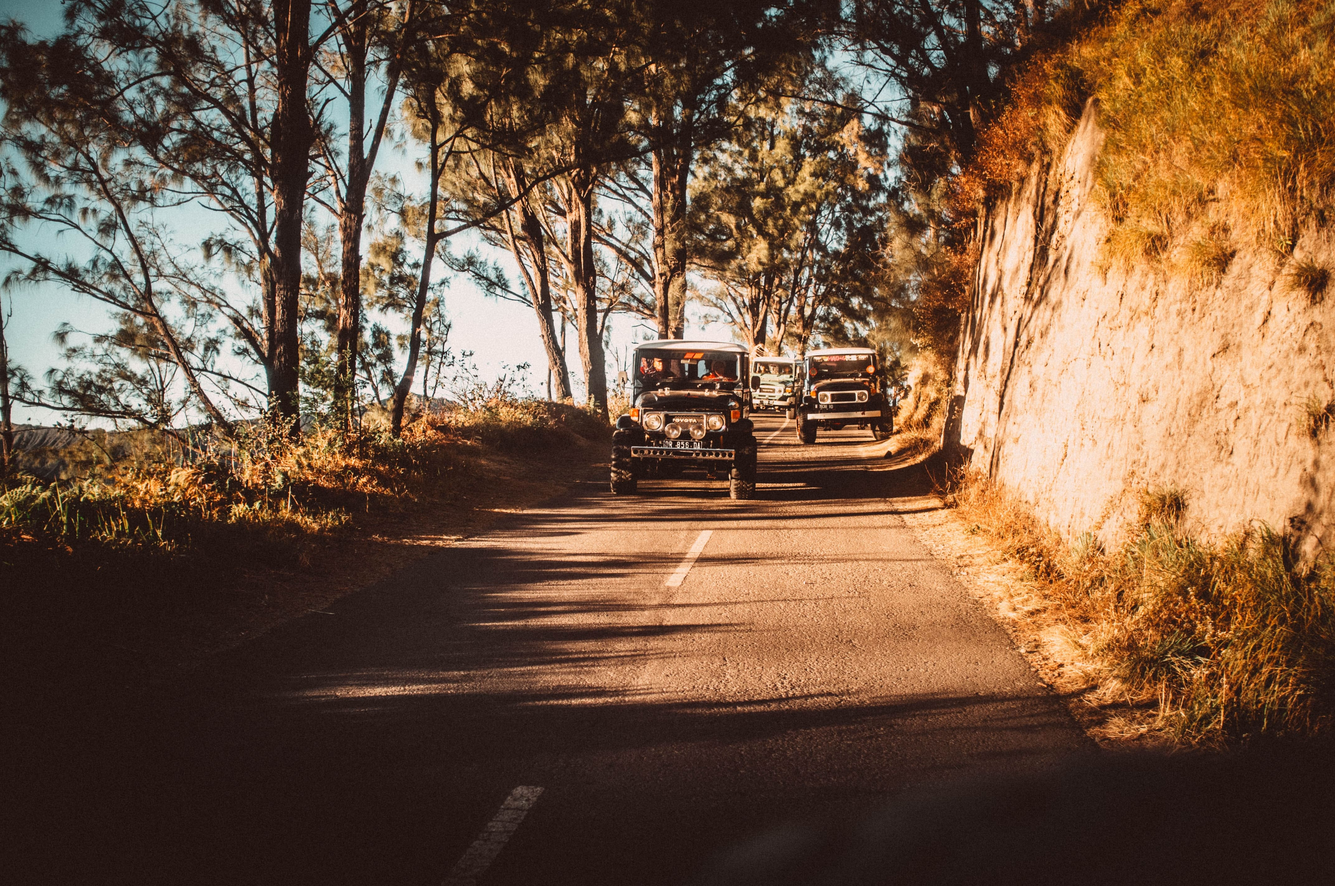
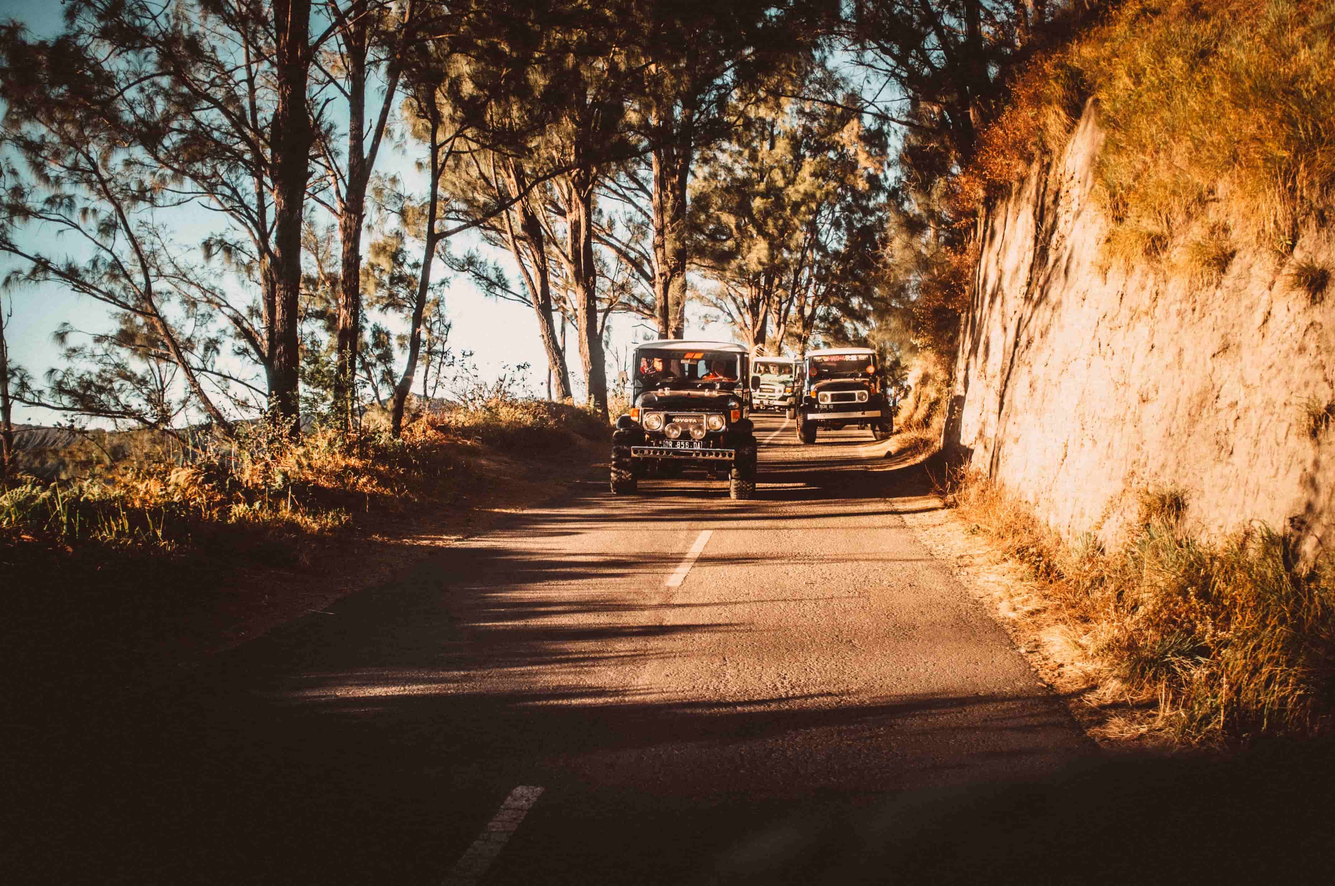
update smaller img

diff --git a/js/action.js b/js/action.js
@@ -7,16 +7,29 @@
  * @FilePath: /Blog-FE/action.js
  */
 
+// $(window).scroll(function(){
+//     let win_h = $(window).scrollTop();
+//     let nav_h = $("header").height();
+//     if(win_h == nav_h){
+//         $("header").css("display",none);
+//     }
+// });
 
 $(window).scroll(function () {
     //获取距离页面顶部的距离
     let toTop =
         document.documentElement.scrollTop ||
         document.body.scrollTop;
+    console.log(toTop);
     //div距离顶部的距离
     if (toTop >= 800) {
         $('#shangxia2').removeClass('hidden');
+        $("header").removeClass('hidden');
+    } else if (toTop === 0) {
+        $("header").addClass('hidden');
+        $('#shangxia2').addClass('hidden');
     } else {
+        $("header").removeClass('hidden');
         $('#shangxia2').addClass('hidden');
     }
 });

diff --git a/index.html b/index.html
@@ -184,7 +184,6 @@
 		</footer>
 		<script>
 			let node = document.getElementById("head-pic");
-			console.log(node);
 			let flag = 1;
 
 			window.setInterval(function () {
